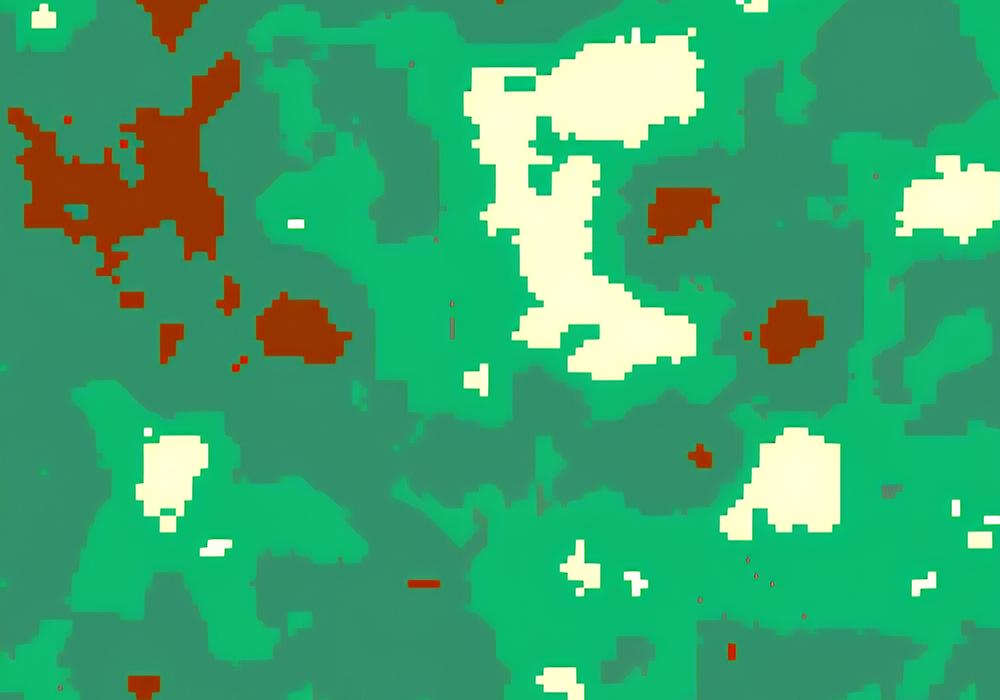
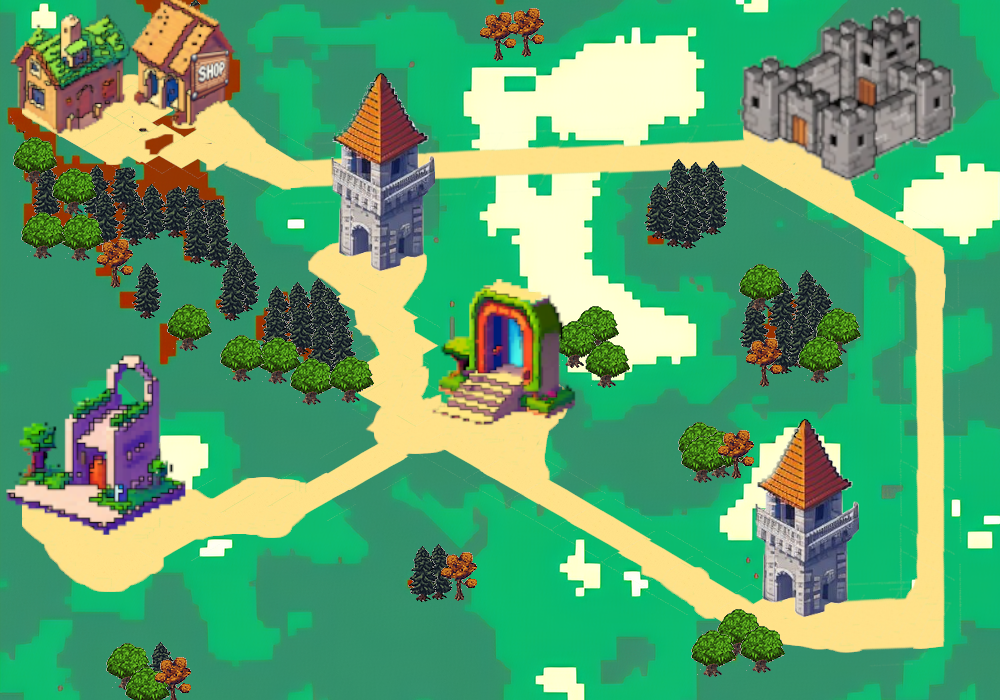
bessere map und shop popup vorbereitet

diff --git a/play.php b/play.php
@@ -31,7 +31,7 @@ $charakter = $_SESSION['charakter'];
             height: 100%;
             width: 100%;
             background-image: url('img/shop_background.png');
-            filter: blur(8px);
+            filter: blur(3px);
             background-position: center;
             background-repeat: no-repeat;
             background-size: cover;
@@ -56,6 +56,7 @@ $charakter = $_SESSION['charakter'];
             margin: auto;
             top: 50%;
             transform: translate(0,-50%);
+            z-index: 1;
         }
         .header {
             position: fixed;
@@ -89,6 +90,7 @@ $charakter = $_SESSION['charakter'];
             top: 50%;
             left: 50%;
             transform: translate(-50%, -50%);
+            z-index: 2;
         }
         .stats {
             position: absolute;
@@ -106,6 +108,18 @@ $charakter = $_SESSION['charakter'];
         .character img {
             width: 100%;
             margin: auto;
+        }
+        .shop{
+            display: none;
+            position: absolute;
+            width: 1000px;
+            height: 700px;
+            background-color: rgba(0, 0, 0, 0.8);
+            margin: auto;
+            top: 50%;
+            left: 50%;
+            transform: translate(-50%,-50%);
+            z-index: 3;
         }
     </style>
 </head>
@@ -142,37 +156,95 @@ $charakter = $_SESSION['charakter'];
                 </div>
             </div>
         </div>
+        <div class="shop">
+            <button onclick="closePopup()">Close</button>
+        </div>
     </div>
     <script>
-        document.addEventListener('keydown', function(event) {
+        document.addEventListener('DOMContentLoaded', function() {
             const player = document.getElementById('player');
             const map = document.querySelector('.map');
-            const step = 10;
+            const shop = document.querySelector('.shop');
+            const step = 2; // Verringerte Schrittweite
             let top = parseInt(window.getComputedStyle(player).top) || 0;
             let left = parseInt(window.getComputedStyle(player).left) || 0;
             const maxTop = map.clientHeight - player.offsetHeight;
             const maxLeft = map.clientWidth - player.offsetWidth;
-
-            switch(event.key) {
-                case 'ArrowUp':
-                    if (top - step >= 0) player.style.top = (top - step) + 'px';
-                    break;
-                case 'ArrowDown':
-                    if (top + step <= maxTop + 1) player.style.top = (top + step) + 'px';
-                    break;
-                case 'ArrowLeft':
-                    if (left - step >= 0) player.style.left = (left - step) + 'px';
-                    break;
-                case 'ArrowRight':
-                    if (left + step <= maxLeft + 1) player.style.left = (left + step) + 'px';
-                    break;
+            let isPopupOpen = false;
+            
+            const keys = {
+                ArrowUp: false,
+                ArrowDown: false,
+                ArrowLeft: false,
+                ArrowRight: false
+            };
+            
+            document.addEventListener('keydown', function(event) {
+                if (!isPopupOpen && keys.hasOwnProperty(event.key)) {
+                    keys[event.key] = true;
+                }
+            });
+            
+            document.addEventListener('keyup', function(event) {
+                if (keys.hasOwnProperty(event.key)) {
+                    keys[event.key] = false;
+                }
+            });
+            
+            function movePlayer() {
+                if (keys.ArrowUp && top - step >= 0) top -= step;
+                if (keys.ArrowDown && top + step <= maxTop + 1) top += step;
+                if (keys.ArrowLeft && left - step >= 0) left -= step;
+                if (keys.ArrowRight && left + step <= maxLeft + 1) left += step;
+            
+                player.style.top = top + 'px';
+                player.style.left = left + 'px';
+            
+                // Update coordinates
+                const coordinates = document.getElementById('coordinates');
+                const x = Math.round((left + player.offsetWidth / 2) / 10);
+                const y = Math.round((top + player.offsetHeight / 2) / 10);
+                coordinates.innerText = `(X: ${x} | Y: ${y})`;
+            
+                // Check for popup condition
+                if (x >= 15 && x <= 18 && y >= 9 && y <= 10) {
+                    showPopup();
+                }
             }
-
-            // Update coordinates
-            const coordinates = document.getElementById('coordinates');
-            const x = Math.round((left + player.offsetWidth / 2) / 10);
-            const y = Math.round((top + player.offsetHeight / 2) / 10);
-            coordinates.innerText = `(X: ${x} | Y: ${y})`;
+            
+            function showPopup() {
+                // Display the shop
+                shop.style.display = 'block';
+                // Disable movement
+                isPopupOpen = true;
+                // Reset keys
+                for (let key in keys) {
+                    keys[key] = false;
+                }
+                // Set player position to X:14 Y:12
+                top = 12 * 10 - player.offsetHeight / 2;
+                left = 14 * 10 - player.offsetWidth / 2;
+                player.style.top = top + 'px';
+                player.style.left = left + 'px';
+                // Update coordinates
+                const coordinates = document.getElementById('coordinates');
+                coordinates.innerText = `(X: 14 | Y: 12)`;
+            }
+            
+            // closePopup als globale Funktion verfügbar machen und im selben Scope definieren
+            window.closePopup = function() {
+                // Hide the shop
+                shop.style.display = 'none';
+                // Enable movement
+                isPopupOpen = false;
+            }
+            
+            function gameLoop() {
+                movePlayer();
+                setTimeout(() => requestAnimationFrame(gameLoop), 20); // Verlangsamte Aktualisierungsrate
+            }
+            
+            gameLoop();
         });
     </script>
 </body>
